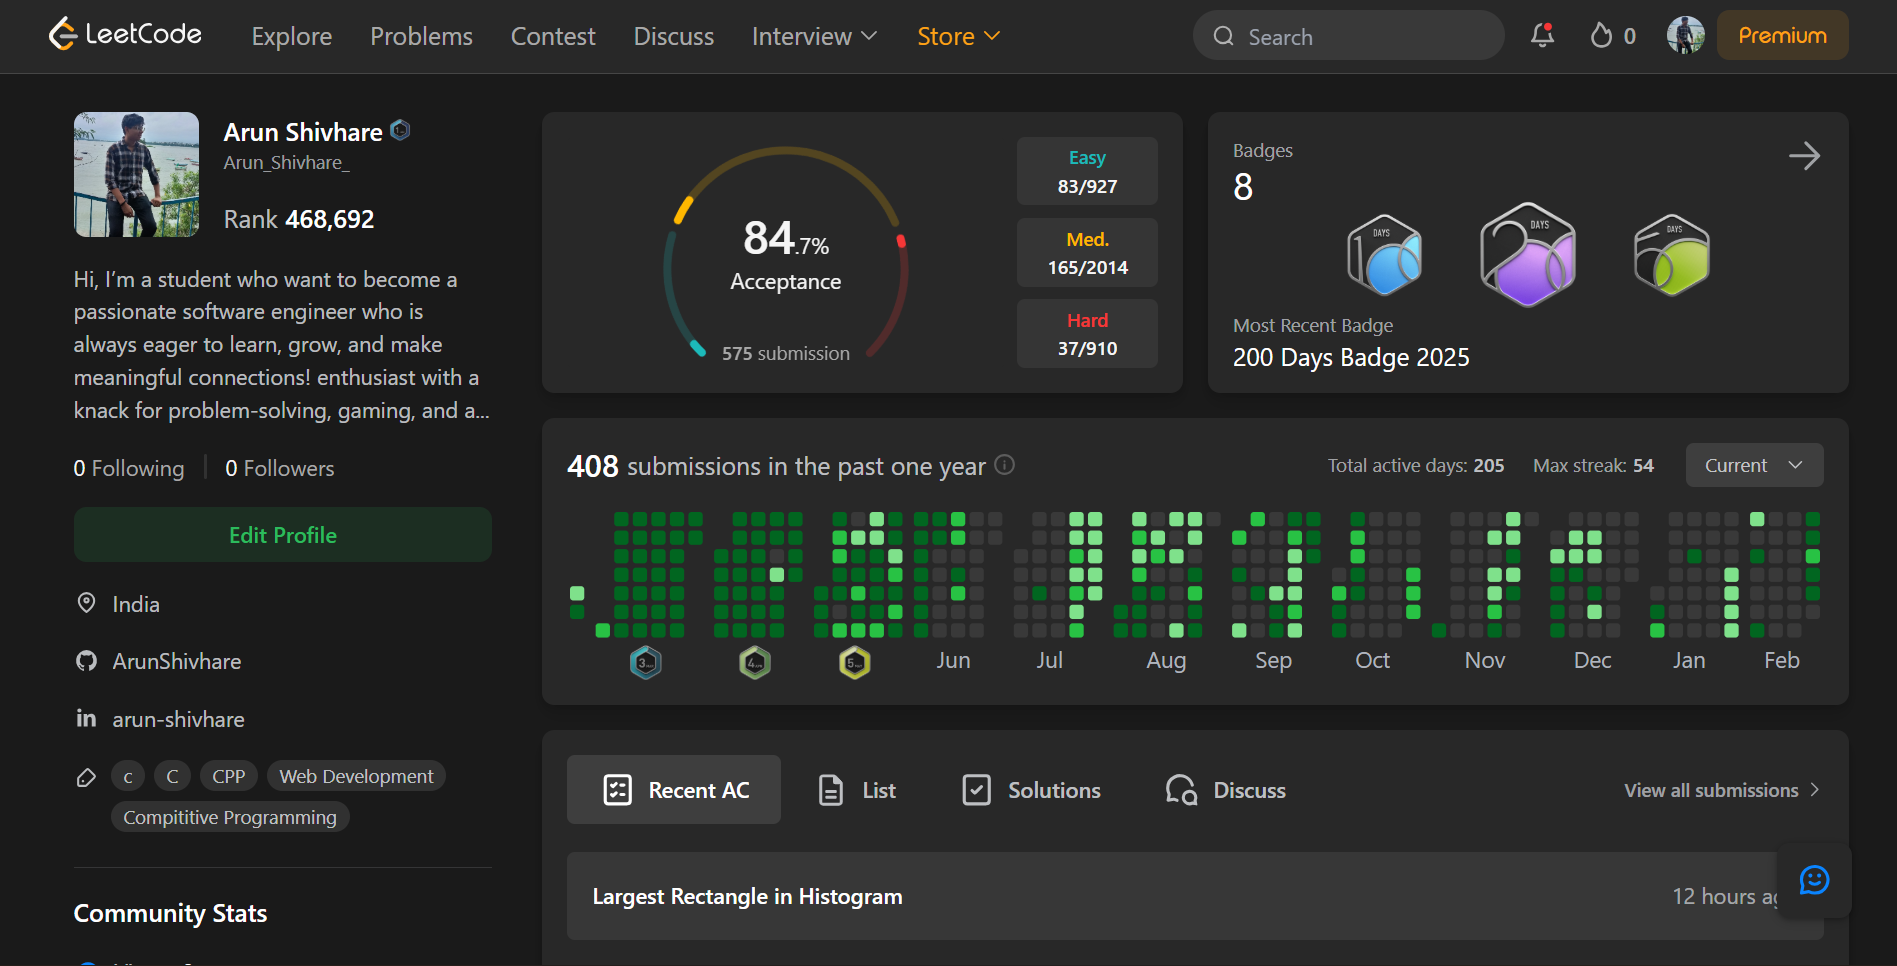
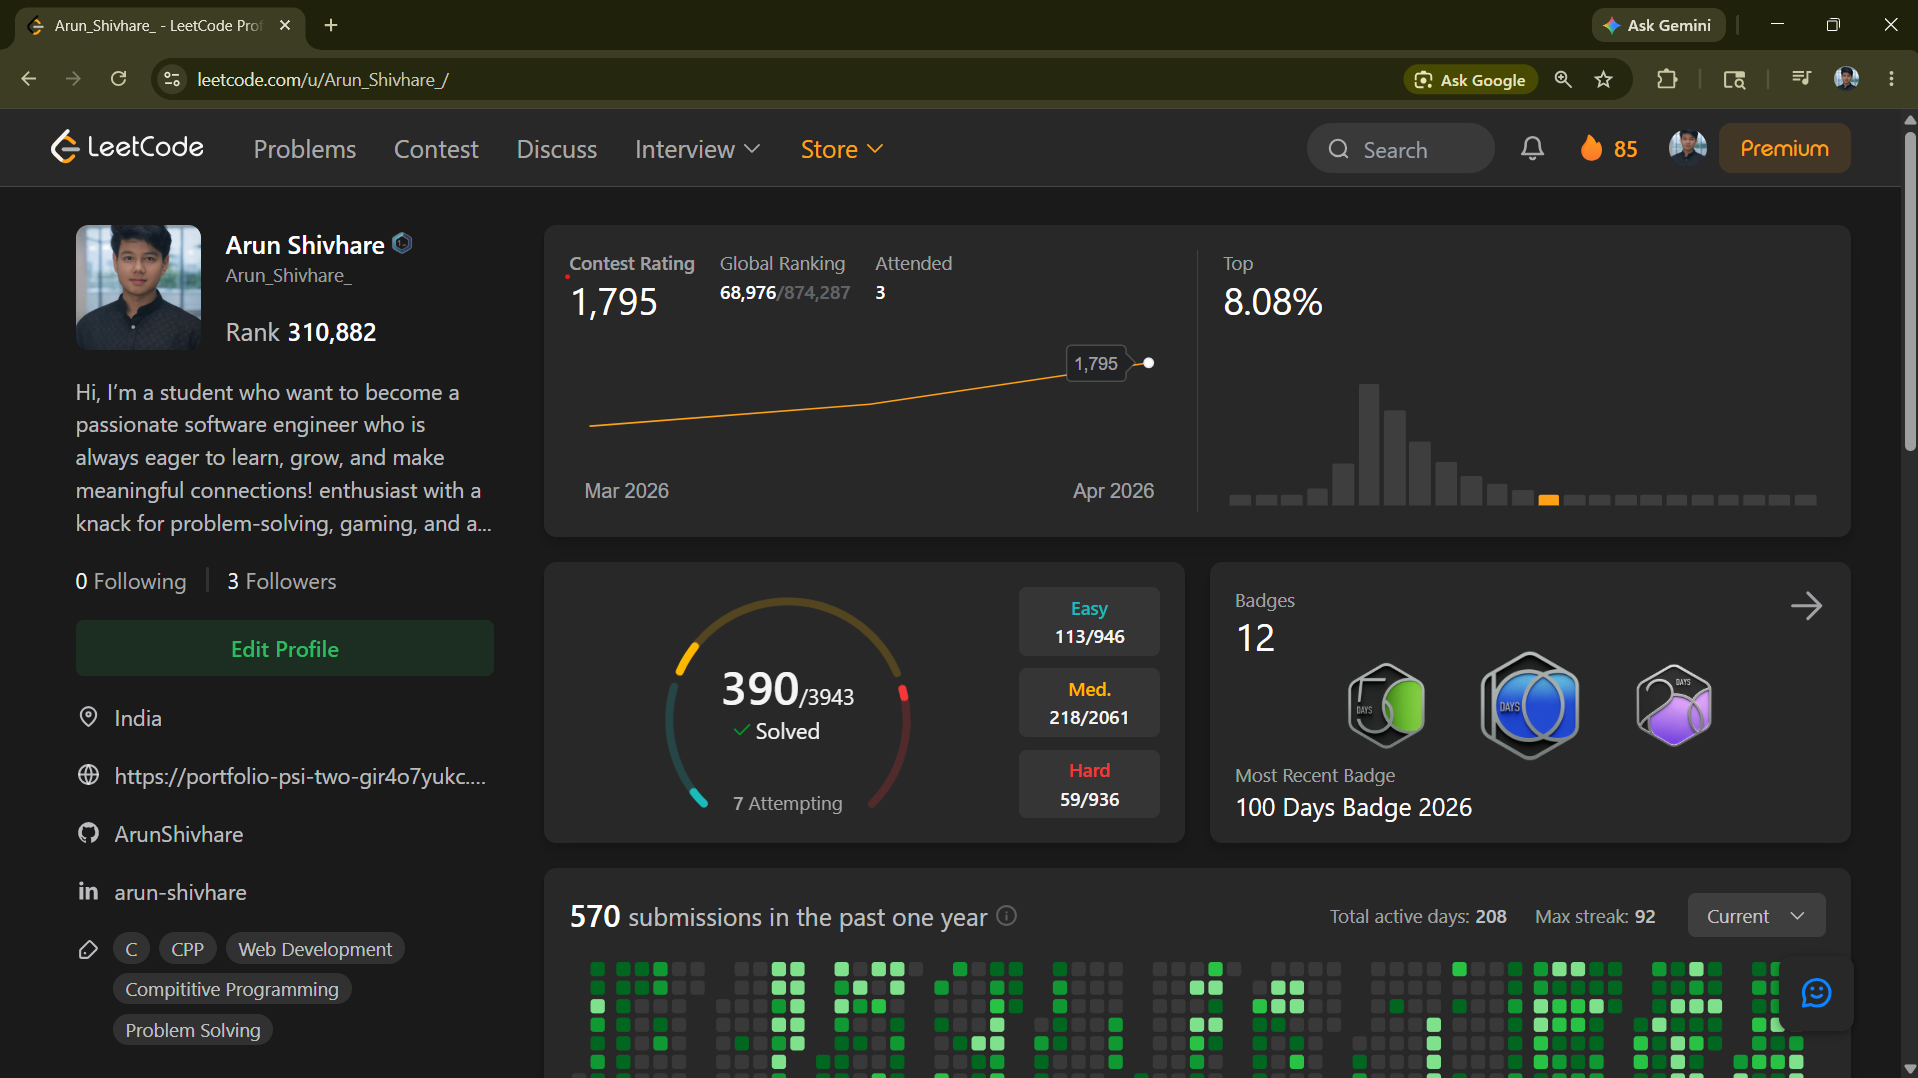
update achievement

diff --git a/src/components/Achievements.jsx b/src/components/Achievements.jsx
@@ -9,7 +9,7 @@ const Achievements = () => {
   const achievements = [
     {
       title: "LeetCode",
-      description: "280+ problems solved • 8 badges earned",
+      description: "380+ problems solved • 12 badges earned",
       year: "2026",
       image: "/achievements/leetcode.png",
       link: "https://leetcode.com/u/Arun_Shivhare_/",
